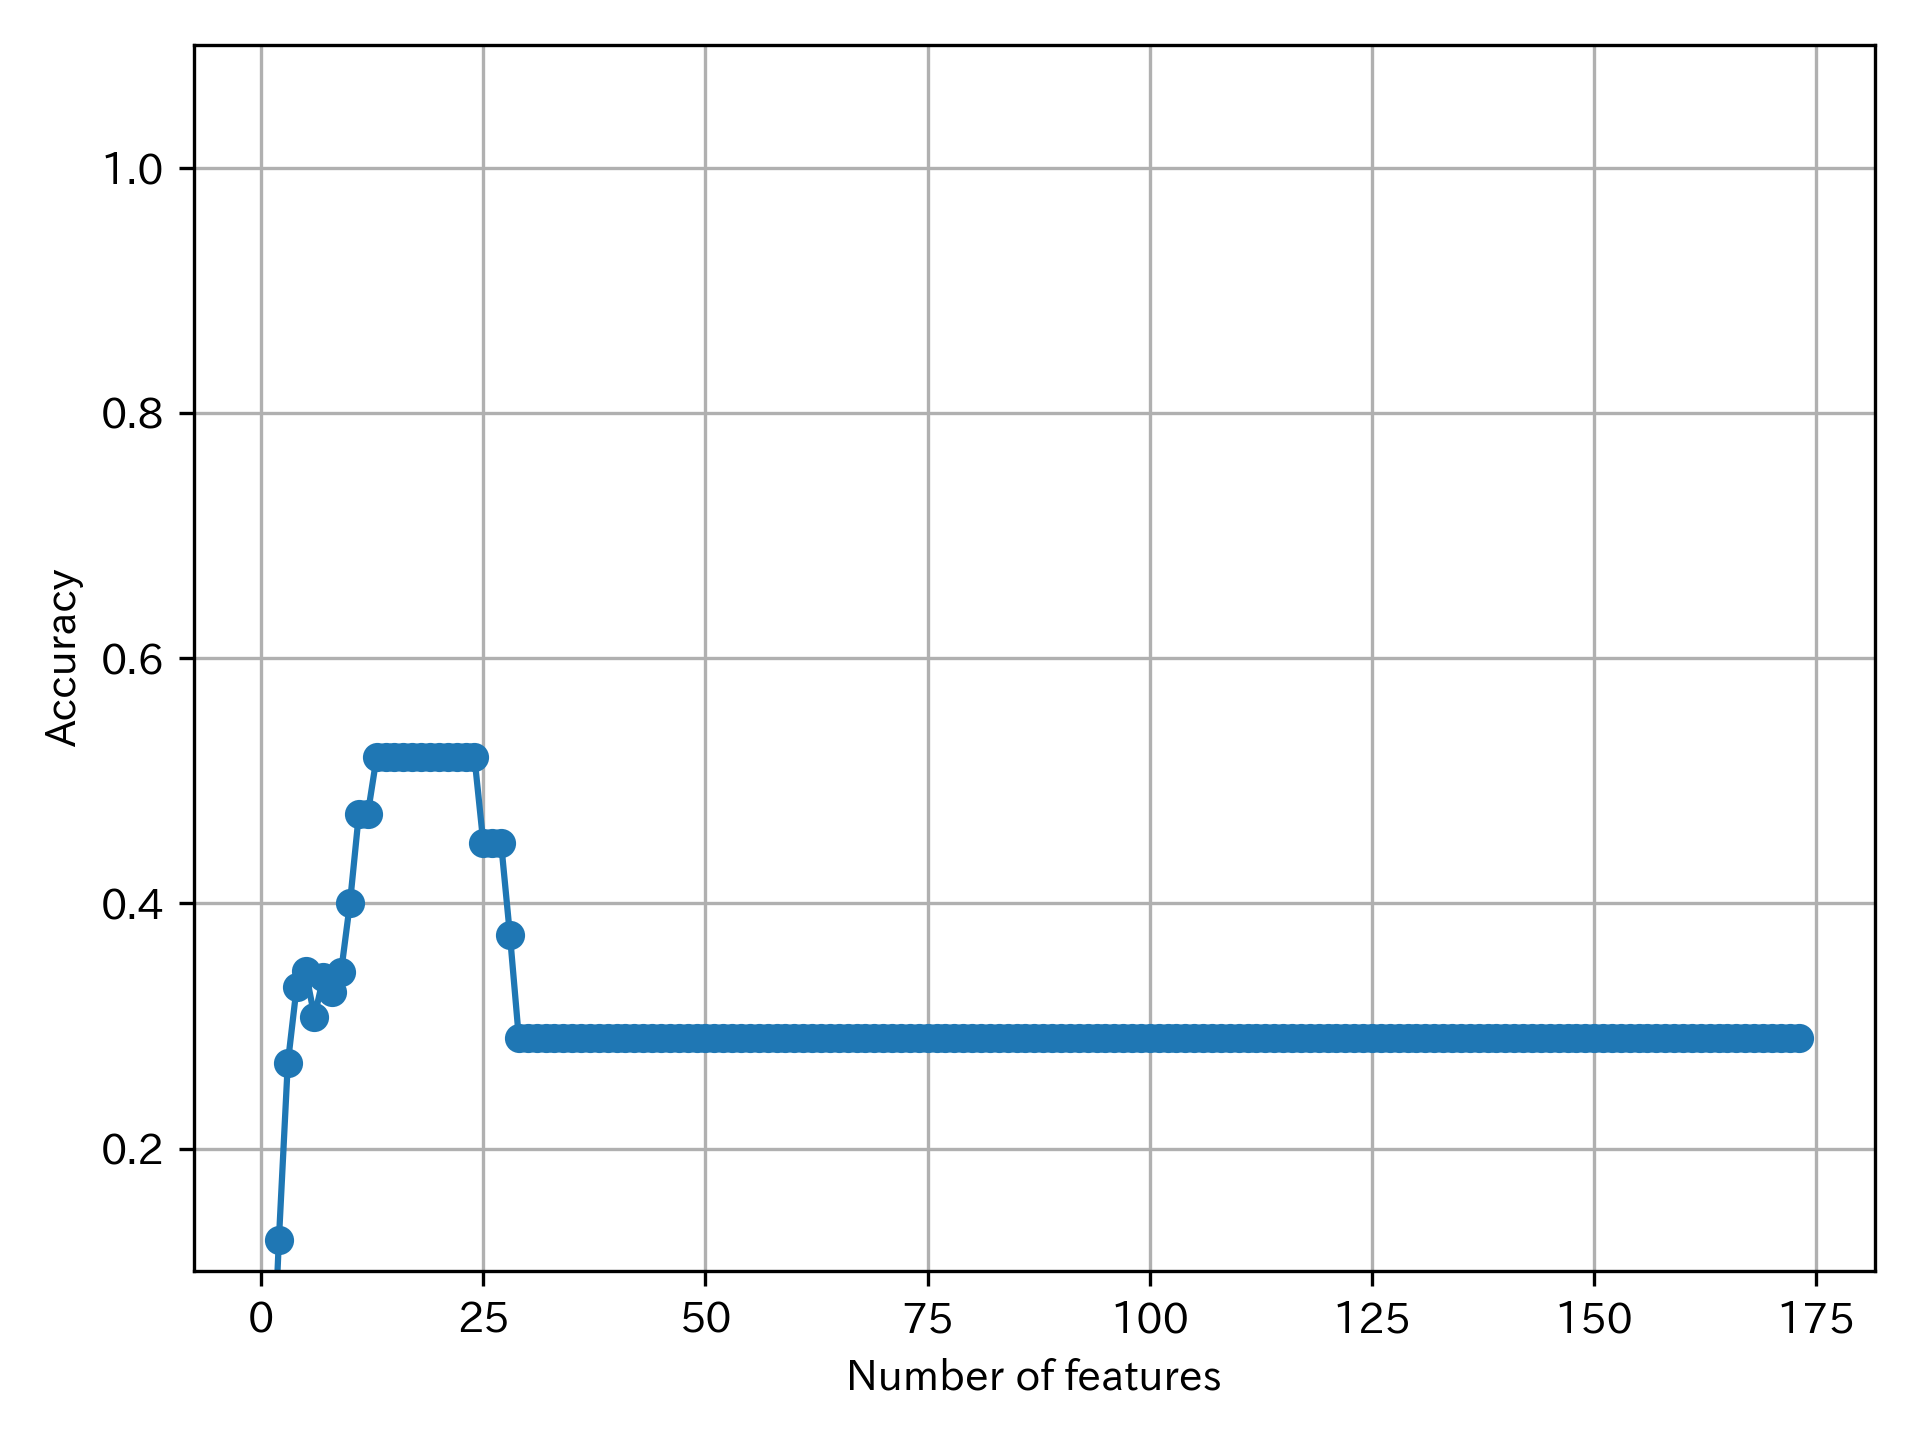
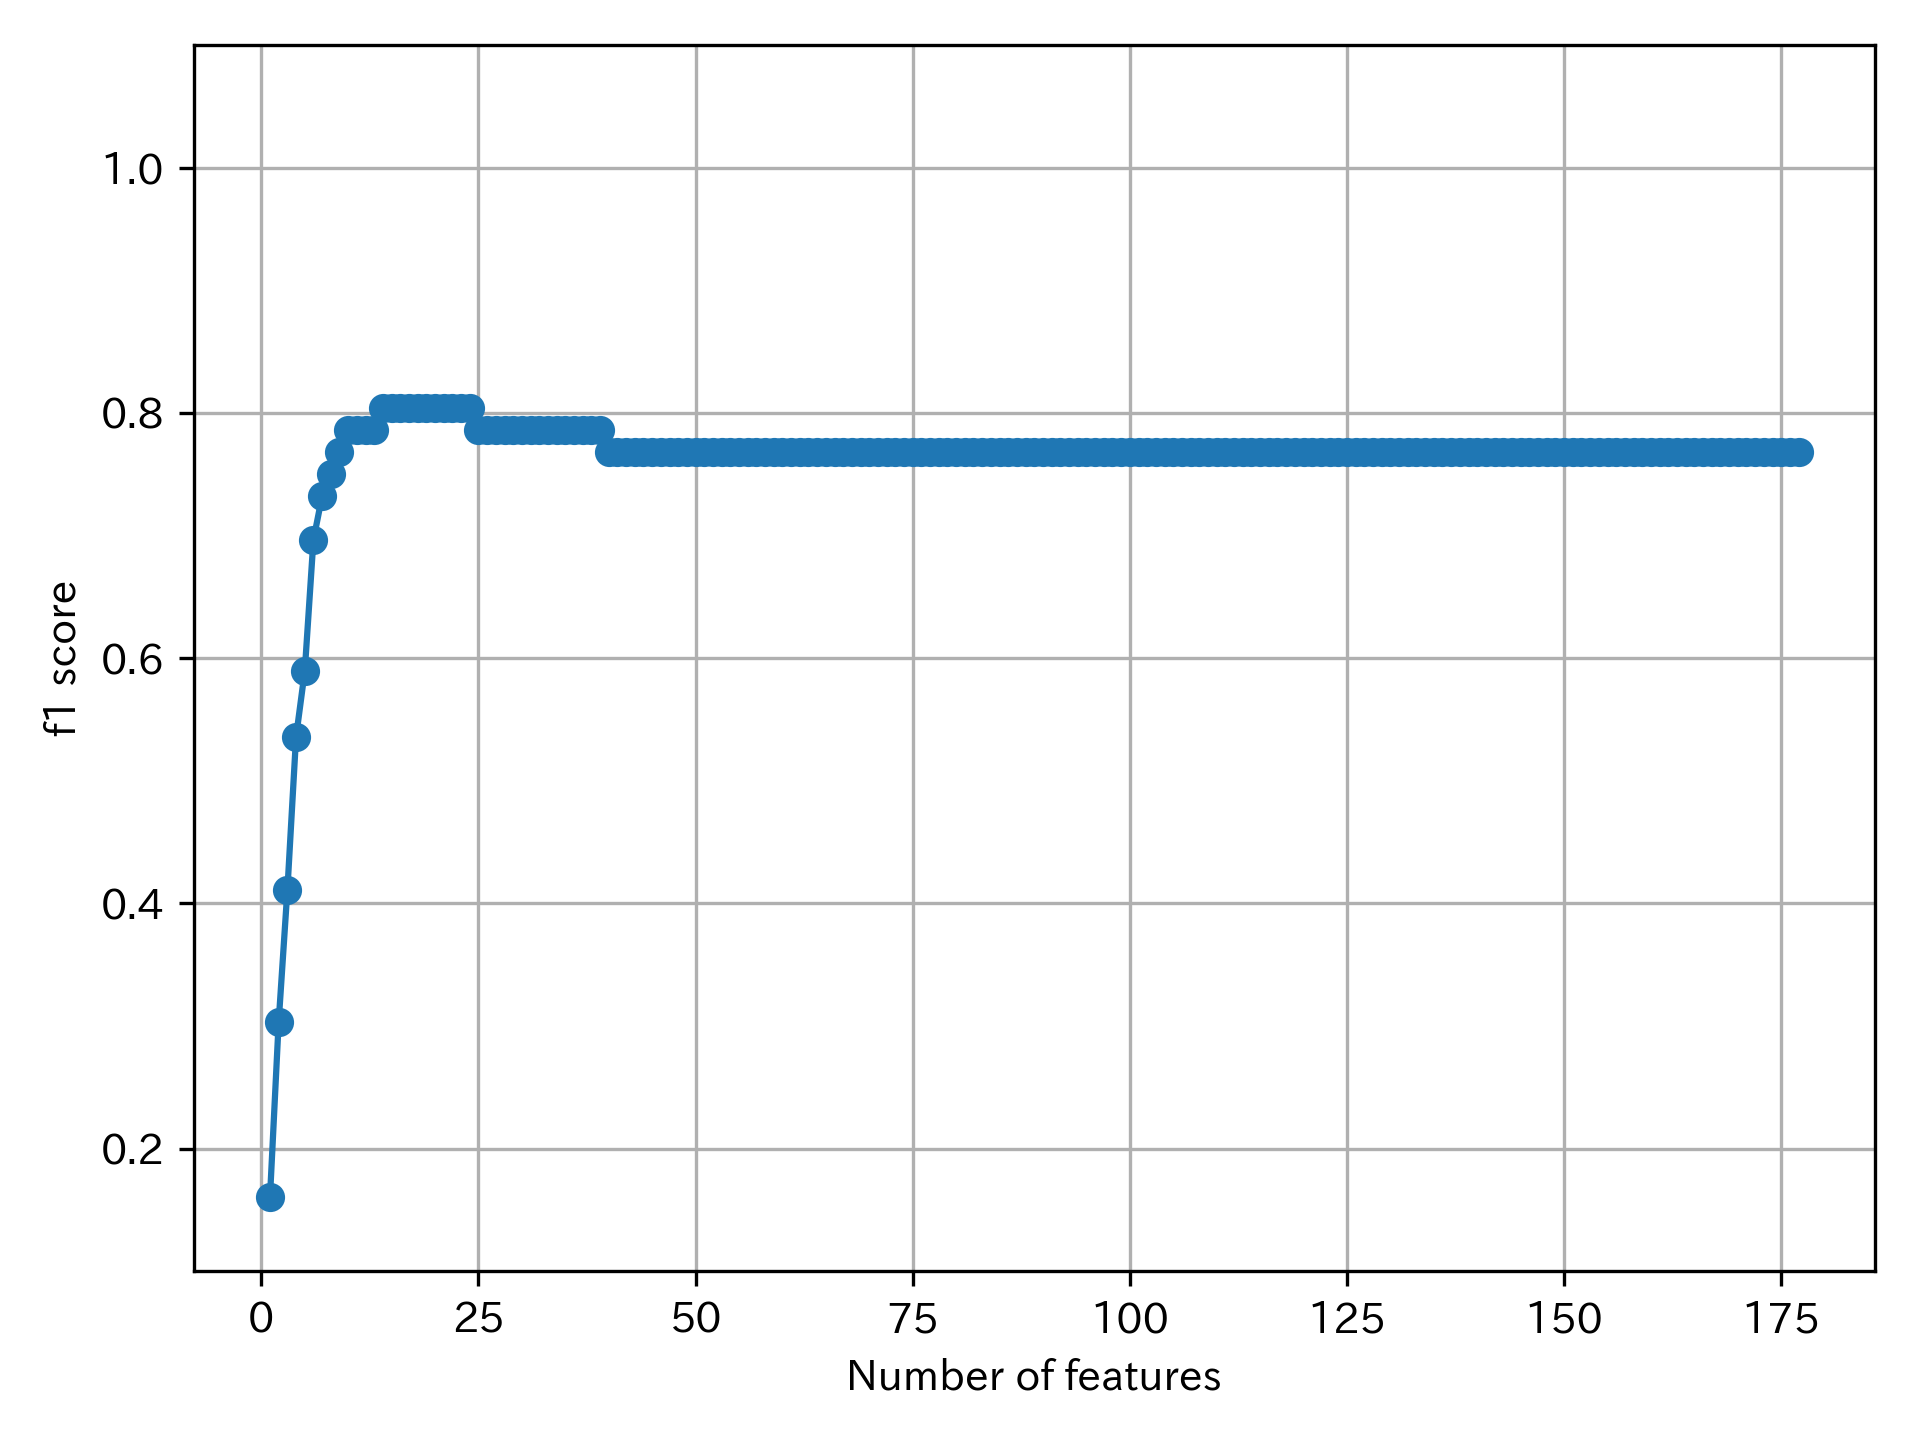
clasify

diff --git a/04_chem/m4_8/classify_data_reduce.py b/04_chem/m4_8/classify_data_reduce.py
@@ -6,7 +6,7 @@ SBSから特徴量を抽出する便利関数たち
 
 import matplotlib.pyplot as plt
 import numpy as np
-from sklearn.metrics import precision_score, matthews_corrcoef, plot_confusion_matrix
+from sklearn.metrics import precision_score, matthews_corrcoef, plot_confusion_matrix, f1_score
 from sklearn.model_selection import train_test_split
 from sklearn.preprocessing import StandardScaler
 from sklearn.svm import SVC
@@ -68,7 +68,7 @@ class Reduce_label():
 
         self.sbs.fit(self.X_train_std, self.y_train)
 
-    def plot_performance(self):
+    def plot_performance(self, path="./sbs.png"):
         """
         SBSでの結果をプロットする
         """
@@ -78,11 +78,11 @@ class Reduce_label():
 
         plt.plot(k_feat, sbs.scores_, marker='o')
         plt.ylim([0.1, 1.1])
-        plt.ylabel('Accuracy')
+        plt.ylabel('f1 score')
         plt.xlabel('Number of features')
         plt.grid()
         plt.tight_layout()
-        plt.savefig('./sbs.png', dpi=300)
+        plt.savefig(path, dpi=300)
         plt.show()
 
     def get_label_name(self, index):
@@ -127,17 +127,19 @@ if __name__ == '__main__':
     svc = SVC(C=1.0, gamma=1.0, class_weight={"exp>pred": 1000, "pred=exp": 1, "pred>exp": 1000})
 
     # クラスに偏りがあるのでmatthews_corrcoefを利用する
-    rel = Reduce_label(X, y, svc, 1, matthews_corrcoef)
+    rel = Reduce_label(X, y, svc, 1, f1_score)
 
     rel.fit()
 
-    rel.plot_performance()
+    rel.plot_performance("data/classify/sbs.png")
     print(rel.get_label_name(25))
+
 
     X_train, X_test, y_train, y_test = rel.get_datasets_reduced(30)
     
     svc.fit(X_train, y_train)
     plot_confusion_matrix(svc ,X_test ,y_test)
+    plt.show()
 
 
 

diff --git a/04_chem/m4_8/classify_write_pairplot.py b/04_chem/m4_8/classify_write_pairplot.py
@@ -42,6 +42,13 @@ if __name__ == '__main__':
     #  'FpDensityMorgan2', 'BertzCT', 'Chi0', 'Chi0n', 'Chi0v', 'Chi1',
     #  'Chi1n', 'Chi1v', 'Chi2n', 'PEOE_VSA10', 'compare']
 
+    label = ['MaxEStateIndex', 'MinEStateIndex', 'MaxAbsEStateIndex', 'MolWt',
+    'HeavyAtomMolWt', 'ExactMolWt', 'NumValenceElectrons',
+    'NumRadicalElectrons', 'MaxPartialCharge', 'MinPartialCharge',
+    'MaxAbsPartialCharge', 'MinAbsPartialCharge', 'FpDensityMorgan1',
+    'FpDensityMorgan2', 'FpDensityMorgan3', 'BalabanJ', 'BertzCT', 'Chi0',
+    'Chi0v', 'Kappa2', 'Kappa3', 'PEOE_VSA1', 'PEOE_VSA10', 'PEOE_VSA11', 'compare']
+
     sns.pairplot(df[label], hue="compare")
     plt.tight_layout()
     plt.savefig("data/classify/pairplot.png")

diff --git a/04_chem/m4_8/classify_SBS.py b/04_chem/m4_8/classify_SBS.py
@@ -61,7 +61,7 @@ class SBS():
     def _calc_score(self, X_train, y_train, X_test, y_test, indices):
         self.estimator.fit(X_train[:, indices], y_train)
         y_pred = self.estimator.predict(X_test[:, indices])
-        score = self.scoring(y_test, y_pred)
+        score = self.scoring(y_test, y_pred, average="micro")
         return score
 
 

diff --git a/README.md b/README.md
@@ -104,9 +104,11 @@ CHEMBL1034536において12/43が予測のワースト25に該当した
 予測が外れたものに重みをつけてSVCでグリッドサーチをしてみたところあまりうまく学習できなかった。
 GridSearchでのクラス分類による混同行列は以下のようになった。評価ではマシューズ相関係数を利用した。
 
+マシューズ相関係数は0.3ほどになった
+
 ![混同行列](https://github.com/kaz-i-54/lab_tasks_for_newcommer/blob/master/04_chem/m4_8/data/classify/svc_confusion.png)
 
-SBSによる特徴量抽出も試みた。マシューズ相関係数で評価をすると特徴量の数が20ほどでも良いスコアが出ることがわかったので、これらの特徴量からペアプロットを描画した。予測の悪さの原因となるような特徴量を見つけることができなかった。
+SBSによる特徴量抽出も試みた。(マシューズ相関係数で評価をしたかったのだが複数のクラス分類に対応していなかったので）f1 microで評価をすると特徴量の数が20ほどでも良いスコアが出ることがわかったので、これらの特徴量からペアプロットを描画した。予測の悪さの原因となるような特徴量を見つけることができなかった。
 
 ![SBS](https://github.com/kaz-i-54/lab_tasks_for_newcommer/blob/master/04_chem/m4_8/data/classify/sbs.png)
 
